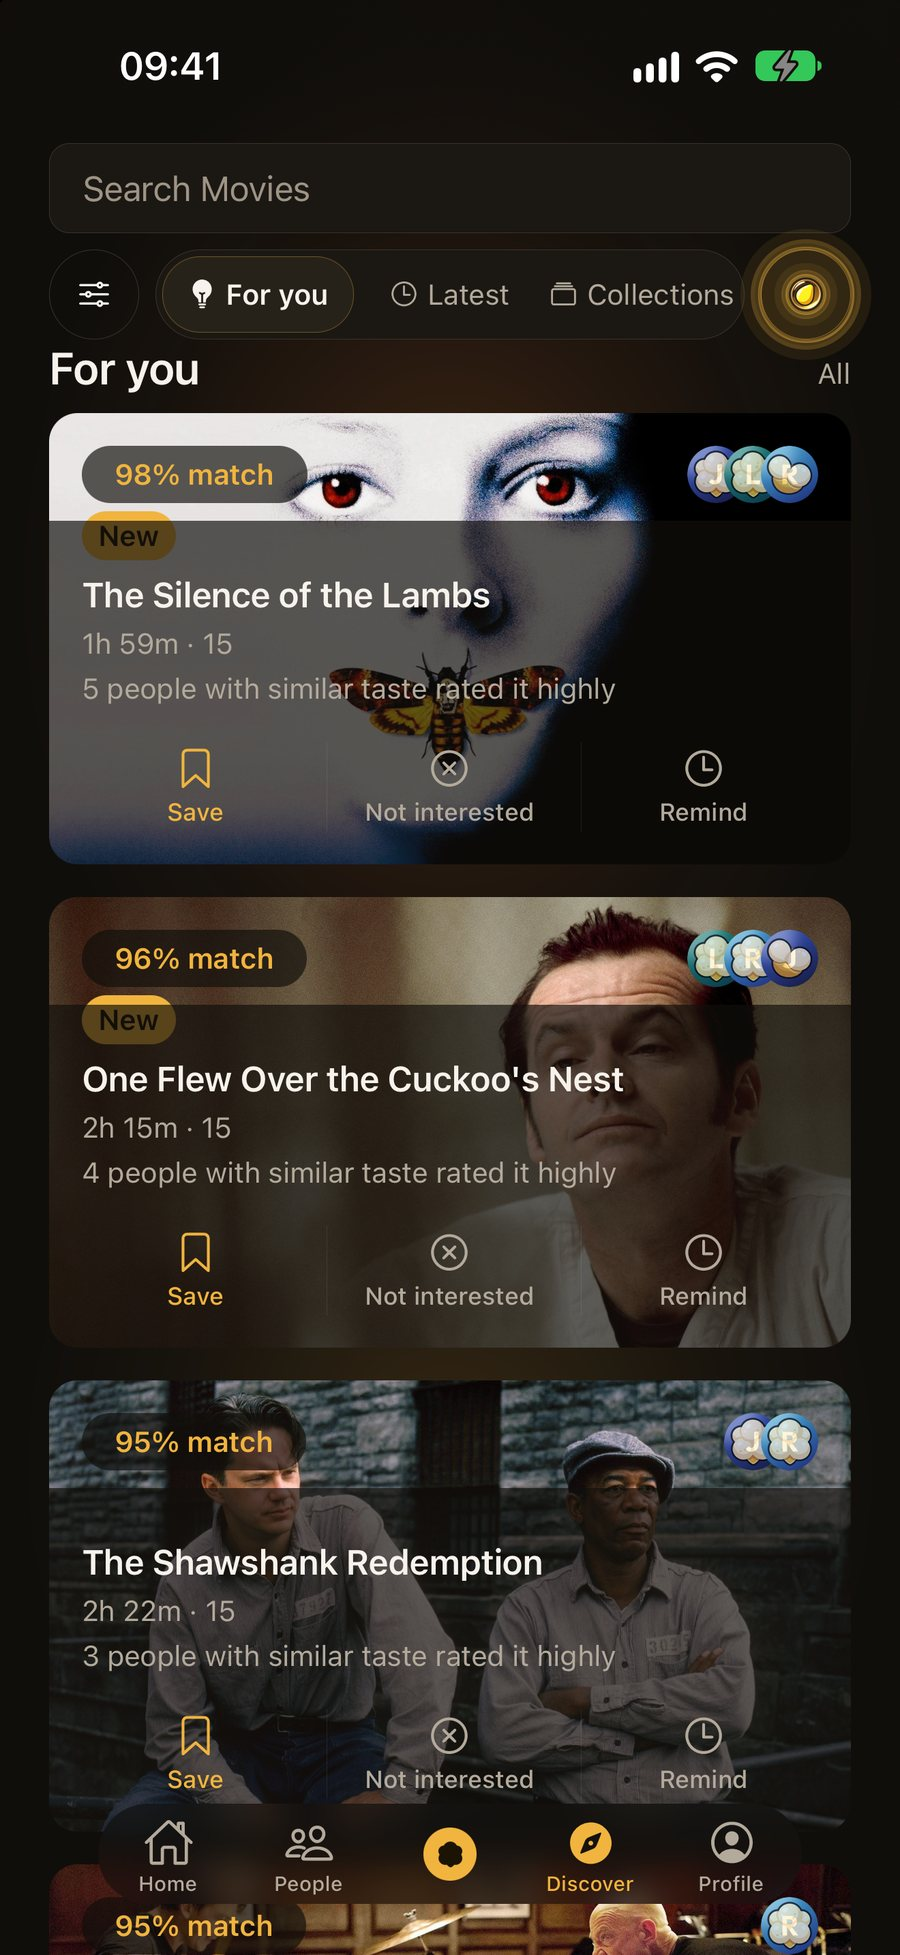
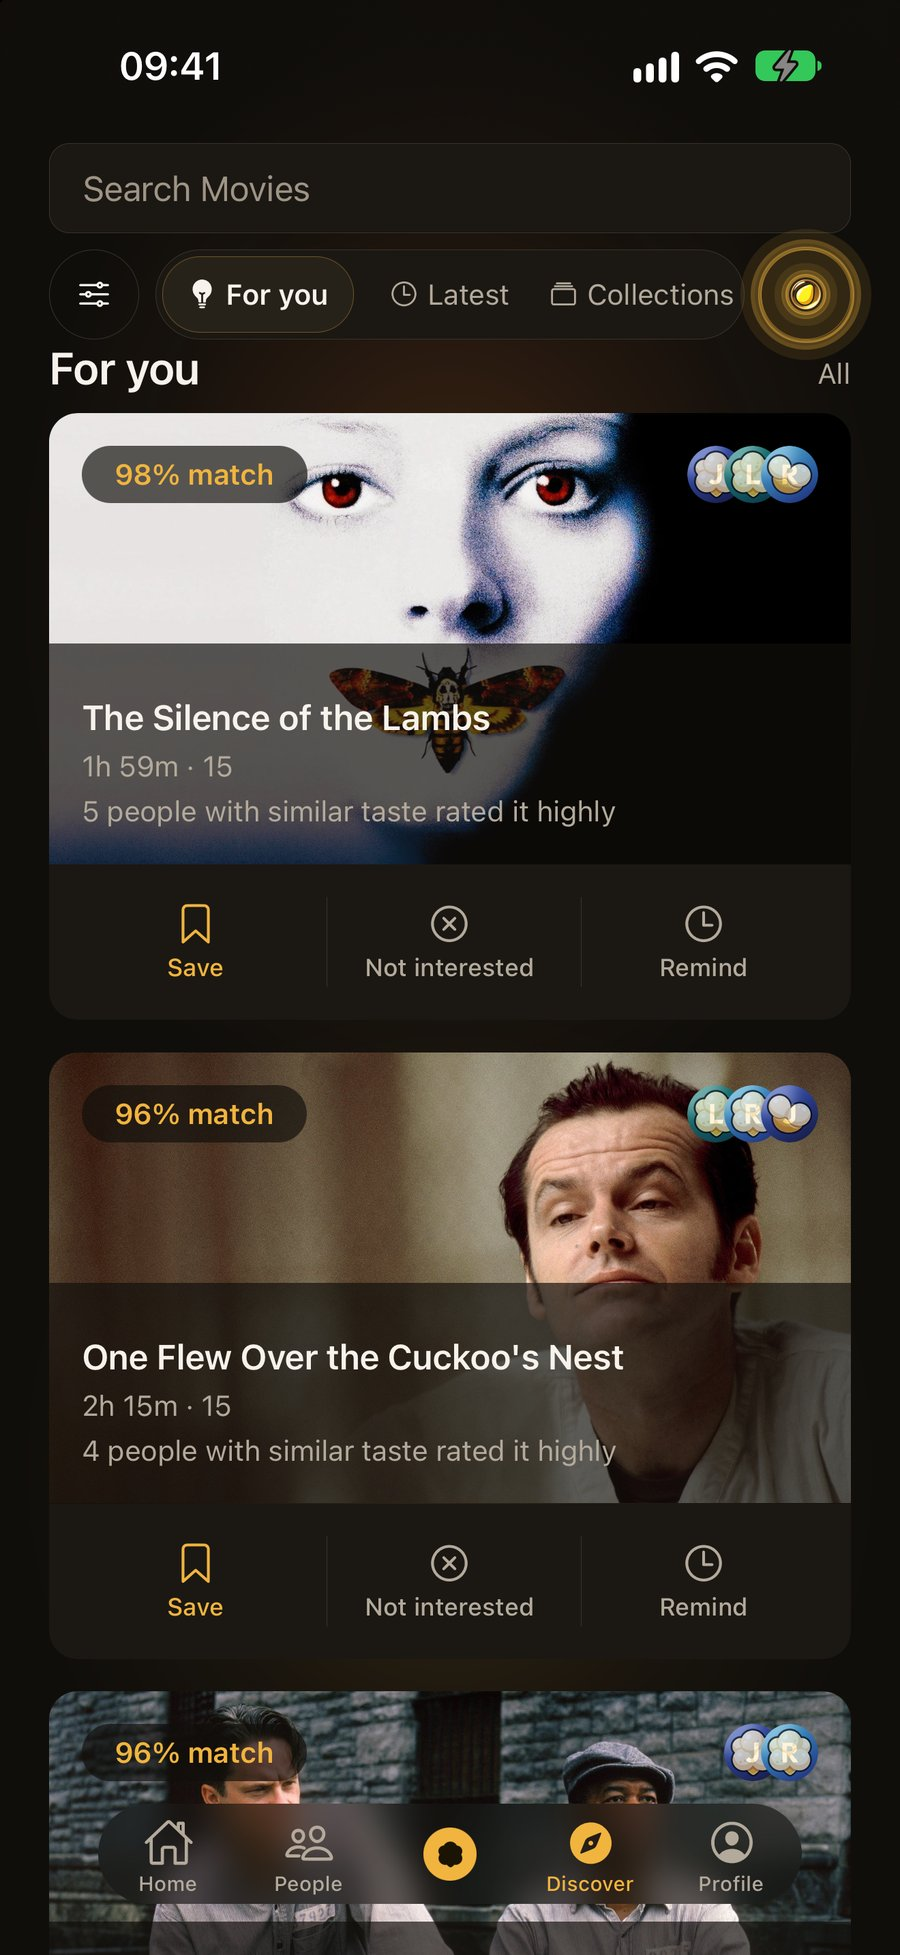
Screenshots: Discover buttons below the artwork, Dud rating label
The home hero's Discover shot now shows the 1.0.6 card layout (details in the
scrim, Save / Not interested / Remind below the artwork). How it works' movie
page shows the renamed level-1 stop, Dud. The five-kernel row caption and the
rating-control alt text say Dud too.

Claude-Session: https://claude.ai/code/session_01Qdp1kccB15PSgA2BBZXxGn

diff --git a/how-it-works/index.html b/how-it-works/index.html
@@ -82,7 +82,7 @@
       <p>Every film you rate on the popcorn scale teaches poppd something. Not just "liked it" or "didn't", but how strongly, which genres, which eras, whether you finished it.</p>
       <p>Ten ratings is enough to start. Fifty and it knows you well.</p>
     </div>
-    <figure class="shot phone"><img src="/assets/hiw-rate.jpg" alt="A movie page in poppd with the five-stage popcorn rating control: Unpopped, Cracked, Popped, Burst, Perfection" width="900" height="1955" loading="lazy"><figcaption>One tap, or press and hold. Five levels of popped.</figcaption></figure>
+    <figure class="shot phone"><img src="/assets/hiw-rate.jpg" alt="A movie page in poppd with the five-stage popcorn rating control: Dud, Cracked, Popped, Burst, Perfection" width="900" height="1955" loading="lazy"><figcaption>One tap, or press and hold. Five levels of popped.</figcaption></figure>
   </section>
 
   <section class="step flip" aria-labelledby="s2">

diff --git a/index.html b/index.html
@@ -97,7 +97,7 @@
     <h2 id="scale-h">Five pops. No essays.</h2>
     <p>The popcorn scale: tap one, or hold and feel it pop. Ten seconds a movie, and every one sharpens your taste profile.</p>
     <div class="kernels">
-      <figure><img src="/assets/kernel-1.png" alt="Unpopped kernel" width="256" height="256"><figcaption>Unpopped</figcaption></figure>
+      <figure><img src="/assets/kernel-1.png" alt="Dud kernel" width="256" height="256"><figcaption>Dud</figcaption></figure>
       <figure><img src="/assets/kernel-2.png" alt="Cracked kernel" width="256" height="256"><figcaption>Cracked</figcaption></figure>
       <figure><img src="/assets/kernel-3.png" alt="Popped kernel" width="256" height="256"><figcaption>Popped</figcaption></figure>
       <figure><img src="/assets/kernel-4.png" alt="Burst popcorn" width="256" height="256"><figcaption>Burst</figcaption></figure>
